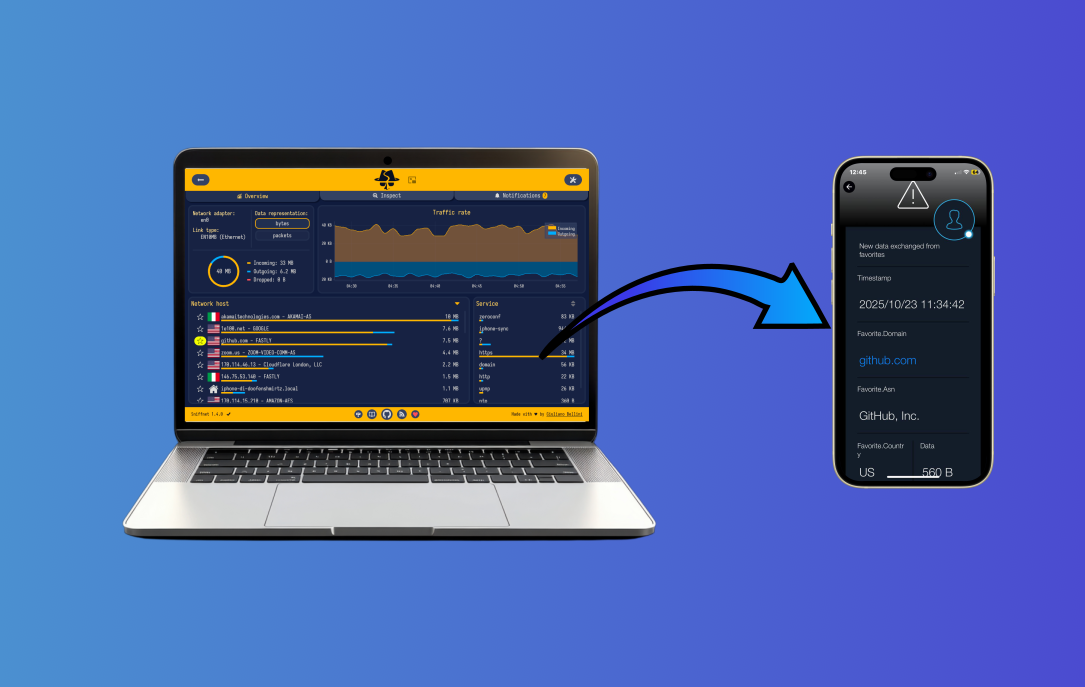
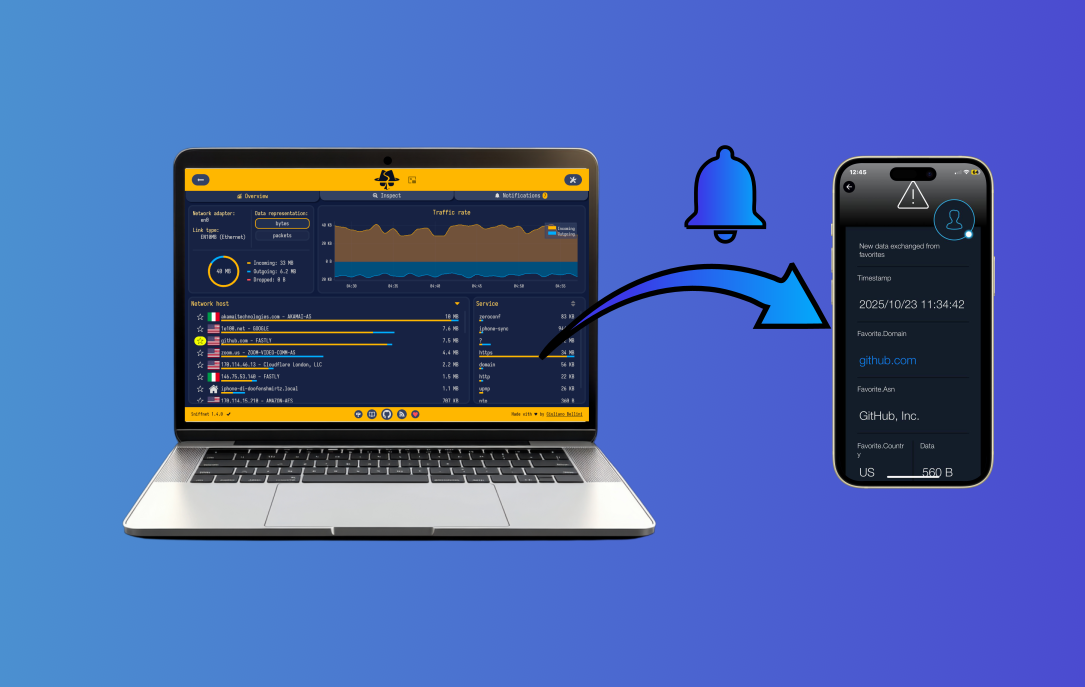
remote notification blog post WIP

Changed region(s): [[0.6083, 0.214, 0.73, 0.3668]]

diff --git a/_posts/2025-11-30-remote-notifications.md b/_posts/2025-11-30-remote-notifications.md
@@ -23,7 +23,7 @@ Or even you're a network administrator in need to be alerted about events happen
 
 Today you'll understand how to do all of this, and you'll also learn how to get the most out of built-in notifications by setting up advanced packet filter programs.
 
-The only prerequisite is to have <a href="{{ 'download' | relative_url }}">Sniffnet installed</a>; if you already do, sit back and have a good read!
+The only prerequisite is to have <a href="{{ 'download' | relative_url }}">Sniffnet 1.4.2 installed</a>; if you already do, sit back and have a good read!
 
 <hr>
 
@@ -53,5 +53,67 @@ and displays webhook notifications in an intuitive way. <br>
 It comes with a free plan that supports our use case, and it's characterised by a quite easy setup,
 as described in the following.
 
-1. Install SIGNL4 from the App Store or Google Play.
-2. 
+1. Install SIGNL4 on your smartphone from the App Store or Google Play.
+2. Create a new account (you can even sign up using your Google or Microsoft account).
+3. Once logged in, click on the button at the top right to access settings, then select the "APIs" tab.
+4. There you'll find your unique webhook URL in the "Inbound Webhook" section; write it down somewhere, as we'll need it later.
+5. (Optional) Feel free to explore other app settings, as you can customize alerts categories, notification preferences, and more.
+
+<hr>
+
+### Configuring Sniffnet
+
+Now that we have a webhook URL ready to receive notifications, it's time to configure Sniffnet to send them. <br>
+
+1. Open Sniffnet and head to the settings by clicking on the button at the top right.
+2. Select the "Notifications" tab.
+3. Enable the "Remote notifications" toggle, and paste the SIGNL4 URL you got from the previous section.
+4. In the same "Notifications" tab, enable the events you want to be alerted about: you can learn more about them in the _Notifications_ Wiki page.
+
+At this point, Sniffnet is all set to send webhook notifications to your SIGNL4 app!
+
+Below you can see a sample notification received on the SIGNL4 app when activating the "New data exchanged from favorite" alert and saving `github.com` as favorite in Sniffnet.
+
+<hr>
+
+### Enhancing notifications with packet filters
+
+Among the available notification types, Sniffnet support alerts when a specified data threshold is exceeded. <br>
+In general, this is useful to be informed about large downloads or uploads happening on the monitored machine. <br>
+However, if you want to closely track a certain kind of traffic, you can leverage filters to refine when such notifications are triggered.
+
+Packet filters programs are routines that run inside Sniffnet and inspect each packet to determine whether it matches given criteria. <br>
+Such programs follow the Berkeley Packet Filter (BPF) syntax, a standardized, powerful, and flexible way to specify the traffic you want to monitor. <br>
+Online you can find many resources to learn BPF syntax: <a target="_blank" href="https://www.ibm.com/docs/en/qsip/7.4?topic=queries-berkeley-packet-filters">this IBM guide</a> is a good starting point.
+
+Setting up a filter is quite straightforward and can be done from Sniffnet initial screen as described in the _Filters configuration_ Wiki page.
+
+As an example, let's say you want to be notified whenever your machine opens a new TCP connection to a server running on port 22 (SSH). <br>
+To do so, you can set a filter like the following one:
+
+```
+tcp[13] & 2 != 0 and dst port 22
+```
+
+This program checks whether the TCP flags field (the 14th byte of the TCP header, hence the index 13) has the SYN bit set (indicating a new connection) and whether the destination port is 22. <br>
+With this filter in place, Sniffnet will only monitor packets matching these criteria:
+in this scenario, you can set the notifications data threshold to zero to effectively get an alert for every new SSH connection attempt.
+
+If you followed the steps in the previous sections, you won't only receive in-app notifications on the monitored machine,
+but also webhook alerts on your smartphone via SIGNL4,
+allowing you to keep track of your machine's network activity even when you're away from it.
+
+<hr>
+
+### Wrapping up
+
+Getting remote notifications from Sniffnet is a powerful way to monitor your machine's network activity from afar. <br>
+By leveraging webhooks and packet filters, you can customize alerts to fit your specific needs and stay informed about important events happening on your system.
+
+Among the features planned for the near future there are custom IP blacklist and enhancements to favorites, which will further extend Sniffnet's alerting capabilities. <br>
+If you have in mind other possible events of interest to trigger a notification, don't hesitate to share your feedback. 
+
+This post was the first tutorial-like article published on the blog, and I hope you found it useful. <br>
+I may consider writing more tutorials in the future, especially targeted at covering the app's most advanced use cases.
+
+Stay tuned for more updates and, as always, happy sniffing!